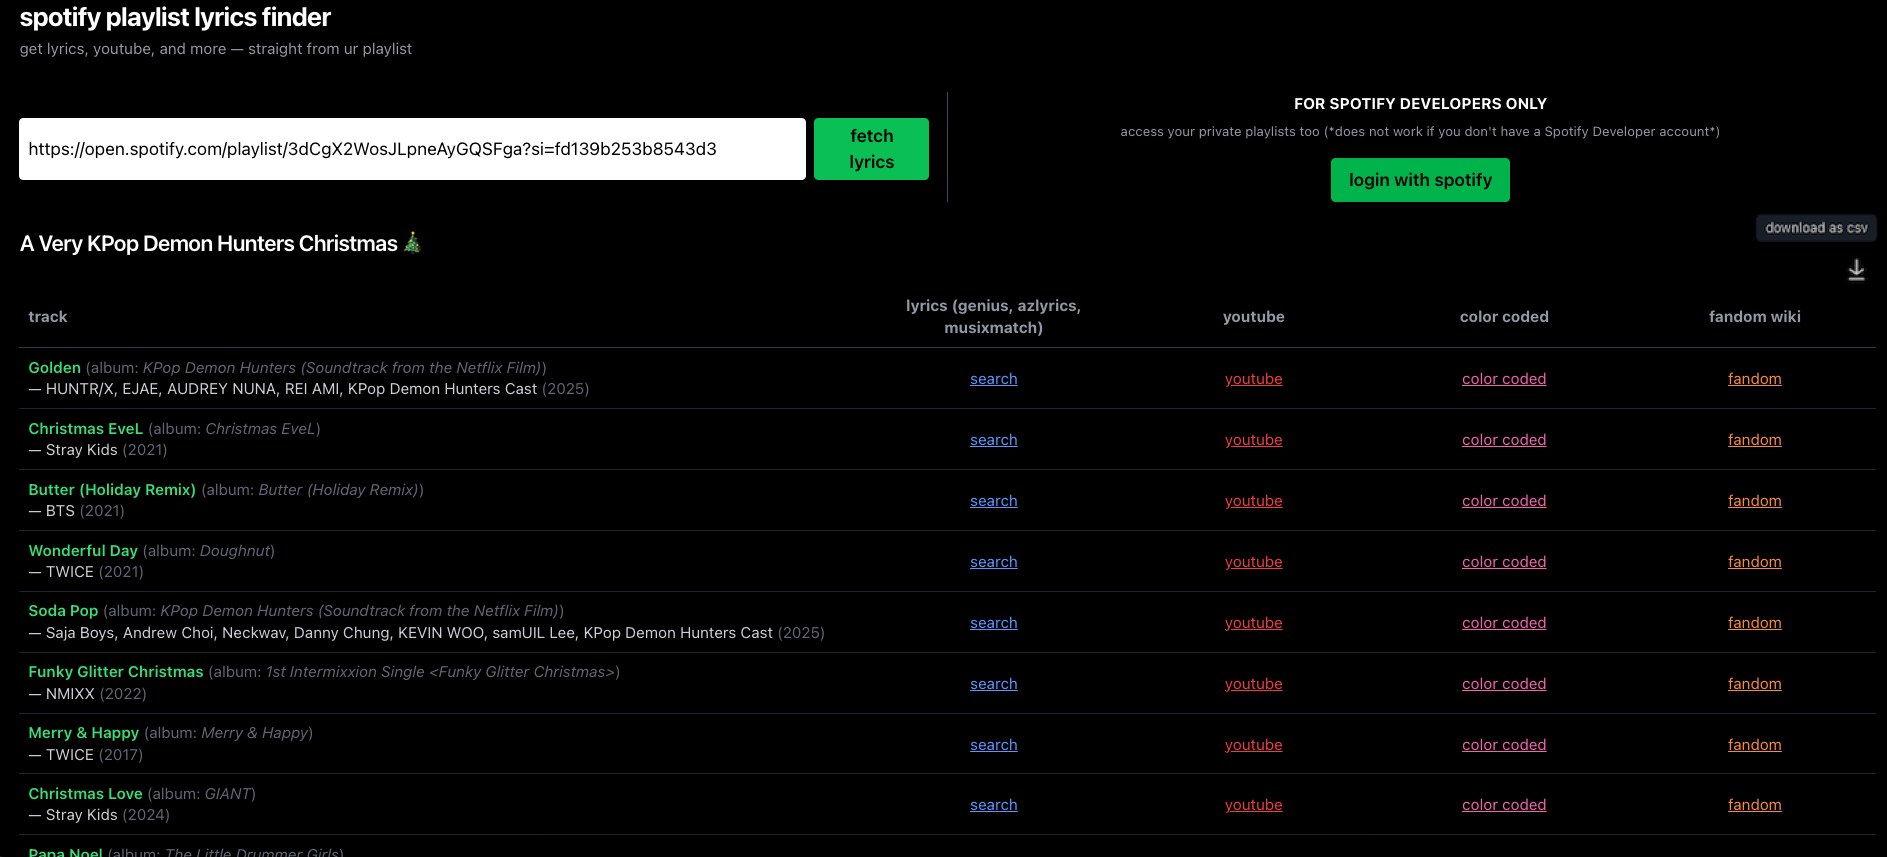
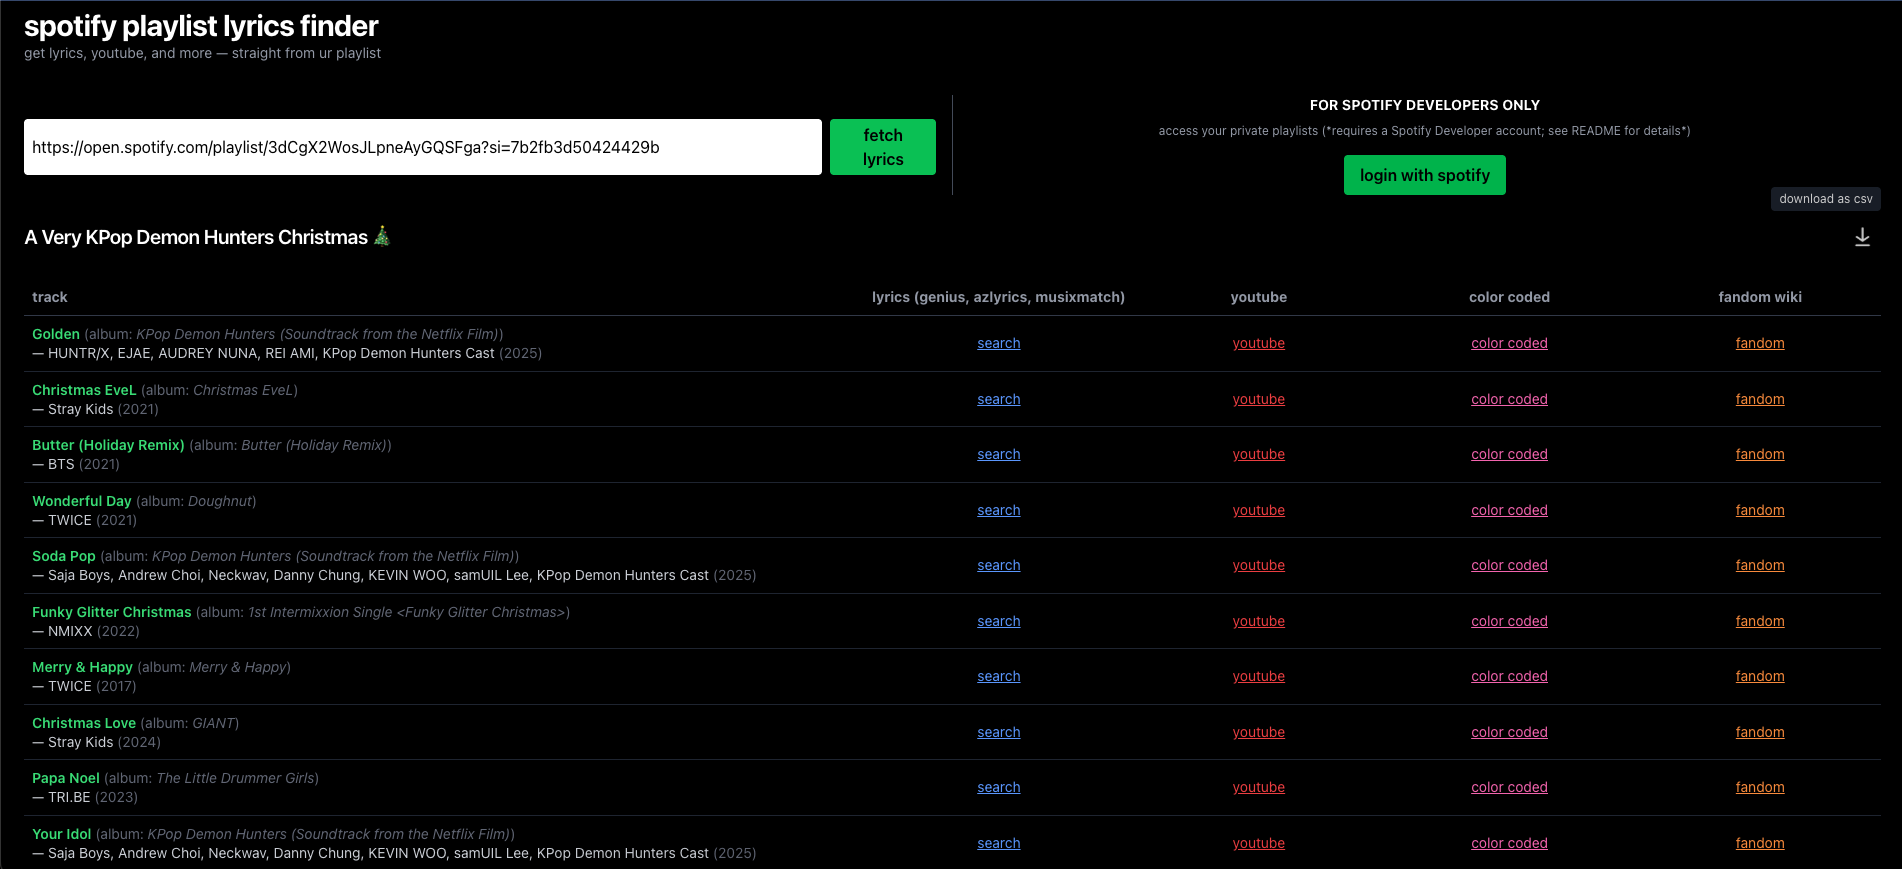
docs/ui: update README, App.jsx, and demo output image

diff --git a/src/App.jsx b/src/App.jsx
@@ -176,7 +176,7 @@ export default function App() {
   return (
     <div className="min-h-screen bg-black text-white p-4 sm:p-6">
       {/* header */}
-      <h1 className="text-2xl font-bold tracking-tight">
+      <h1 className="text-3xl font-bold tracking-tight">
         spotify playlist lyrics finder
       </h1>
       <p className="text-sm text-gray-400 mb-8">
@@ -215,7 +215,7 @@ export default function App() {
             FOR SPOTIFY DEVELOPERS ONLY
           </p>
           <p className="text-gray-400 text-xs mb-2">
-            access your private playlists too (*does not work if you don't have a Spotify Developer account*)
+            access your private playlists (*requires a Spotify Developer account; see README for details*)
           </p>
 
           {!token ? (

diff --git a/README.md b/README.md
@@ -11,7 +11,7 @@ Search any Spotify playlist and get lyrics, videos, and more — directly from y
 ## Features
 
 * 🎵 Search **any public Spotify playlist** by URL
-* 🔐 Login with Spotify to access **private playlists** (note: you must have a Spotify Developer account: [Spotify for Developers](https://developer.spotify.com/))
+* 🔐 Login with Spotify to access **private playlists** (Note: You must have a Spotify Developer account: [Spotify for Developers](https://developer.spotify.com/); see **"Spotify OAuth / Development Mode Notes"** for details on Development vs Extended Quota Mode)
 * 📊 Browse a **5-column table of sources for each track**:
   * **Track Info** (song title, album, artist(s), year)
   * **Lyrics** (Genius / AZLyrics / Musixmatch)
@@ -62,8 +62,8 @@ npm install
 2. Create an app
 3. Copy your `Client ID` and `Client Secret`
 4. Add **redirect URI** in your Spotify app settings:
-- **Local development:** `http://127.0.0.1:5173/api/callback`
-- **Production / deployed site:** `https://your-app-name.vercel.app/api/callback`
+  * **Local development:** `http://127.0.0.1:5173/api/callback`
+  * **Production / deployed site:** `https://your-app-name.vercel.app/api/callback`
 
 ⚠ Common issue: Using `localhost` instead of `127.0.0.1`, or a mismatched port/path, will break Spotify OAuth.  
 For more details, see [Redirect URIs | Spotify for Developers](https://developer.spotify.com/documentation/web-api/concepts/redirect_uri).
@@ -105,9 +105,25 @@ Can be deployed to:
 
 ---
 
+## Spotify OAuth / Development Mode Notes
+
+* The app supports OAuth login to access private playlists.
+* **Development Mode**:
+  * The **app owner** can always log in and access their private playlists.
+  * **Other users** must be **manually added** to the allowlist in the Spotify Developer Dashboard.
+  * Maximum of **25 users** in Development Mode.
+  * See more details about **Development vs Extended Quota Mode** here: [Spotify Quota Modes](https://developer.spotify.com/documentation/web-api/concepts/quota-modes)
+* **Extended / Public Mode**:
+  * If approved for Extended Quota Mode, your app can support a larger (or unlimited) number of users.
+  * This requires meeting Spotify’s criteria, such as having an established business and sufficient user activity.
+
+---
+
 ## ⚠ Limitations / Notes
 
-* Private playlists require **Spotify login / OAuth** — public playlists work without authentication.
+* Private playlists require **Spotify login / OAuth** (public playlists work without authentication).
+   *  Note: Only users added to the allowlist can access private playlists in Development Mode. App owners are automatically allowed.
+   *  For information on limits and quota extension, see the "Spotify OAuth / Development Mode Notes" section.
 * Lyrics links are **search-based** (Genius, AZLyrics, Musixmatch) and may **not always point to the exact lyrics**.
 * YouTube videos and Fandom Wiki links may occasionally be missing if the track is rare or not widely documented.
 * **CSV export** contains Google search links (not direct lyrics) — perfect for batch research or sharing with others.
